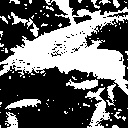
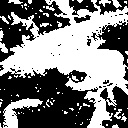
fixed

diff --git a/Question_01_10/answer_5.py b/Question_01_10/answer_5.py
@@ -2,10 +2,7 @@ import cv2
 import numpy as np
 
 # Read image
-img = cv2.imread("imori.jpg").astype(np.float) / 255.
-b = img[:, :, 0].copy()
-g = img[:, :, 1].copy()
-r = img[:, :, 2].copy()
+img = cv2.imread("imori.jpg").astype(np.float32) / 255.
 
 # RGB > HSV
 out = np.zeros_like(img)
@@ -16,23 +13,27 @@ min_arg = np.argmin(img, axis=2)
 
 H = np.zeros_like(max_v)
 
-for num, i in enumerate(range(0, 2, 1)):
-    ind = np.where(min_arg == i)
-    _ind = np.where((max_v[ind] - min_v[ind]) == 0)
-    H[ind][_ind] = 0
-    _ind = np.where((max_v[ind] - min_v[ind]) > 0)
-    H[ind][_ind] = 60. * (img[..., ((i+1)%3)][ind][_ind] - img[..., ((i+2)%3)][ind][_ind]) / (max_v[ind] - min_v[ind])[_ind] + 60. * (2*num+1)
-
+H[np.where(max_v == min_v)] = 0
+## if min == B
+ind = np.where(min_arg == 0)
+H[ind] = 60 * (img[..., 1][ind] - img[..., 2][ind]) / (max_v[ind] - min_v[ind]) + 60
+## if min == R
+ind = np.where(min_arg == 2)
+H[ind] = 60 * (img[..., 0][ind] - img[..., 1][ind]) / (max_v[ind] - min_v[ind]) + 180
+## if min == G
+ind = np.where(min_arg == 1)
+H[ind] = 60 * (img[..., 2][ind] - img[..., 0][ind]) / (max_v[ind] - min_v[ind]) + 300
+    
 V = max_v.copy()
 S = max_v.copy() - min_v.copy()
 
 # Transpose Hue
-H += 180 % 360
+H = (H + 180) % 360
 
 # HSV > RGB
 
 C = S
-H_ = H / 60
+H_ = H // 60
 X = C * (1 - np.abs( H_ % 2 - 1))
 Z = np.zeros_like(H)
 

diff --git a/Question_01_10/answer_4.py b/Question_01_10/answer_4.py
@@ -15,10 +15,10 @@ max_sigma = 0
 max_t = 0
 
 for _t in range(1, 255):
-    v0 = out[np.where(out < _t)[0]]
+    v0 = out[np.where(out < _t)]
     m0 = np.mean(v0) if len(v0) > 0 else 0.
     w0 = len(v0) / (H * W)
-    v1 = out[np.where(out >= _t)[0]]
+    v1 = out[np.where(out >= _t)]
     m1 = np.mean(v1) if len(v1) > 0 else 0.
     w1 = len(v1) / (H * W)
     sigma = w0 * w1 * ((m0 - m1) ** 2)

diff --git a/Question_41_50/answer_47.py b/Question_41_50/answer_47.py
@@ -16,10 +16,10 @@ max_sigma = 0
 max_t = 0
 
 for _t in range(1, 255):
-    v0 = out[np.where(out < _t)[0]]
+    v0 = out[np.where(out < _t)]
     m0 = np.mean(v0) if len(v0) > 0 else 0.
     w0 = len(v0) / (H * W)
-    v1 = out[np.where(out >= _t)[0]]
+    v1 = out[np.where(out >= _t)]
     m1 = np.mean(v1) if len(v1) > 0 else 0.
     w1 = len(v1) / (H * W)
     sigma = w0 * w1 * ((m0 - m1) ** 2)

diff --git a/Question_41_50/answer_48.py b/Question_41_50/answer_48.py
@@ -16,10 +16,10 @@ max_sigma = 0
 max_t = 0
 
 for _t in range(1, 255):
-    v0 = out[np.where(out < _t)[0]]
+    v0 = out[np.where(out < _t)]
     m0 = np.mean(v0) if len(v0) > 0 else 0.
     w0 = len(v0) / (H * W)
-    v1 = out[np.where(out >= _t)[0]]
+    v1 = out[np.where(out >= _t)]
     m1 = np.mean(v1) if len(v1) > 0 else 0.
     w1 = len(v1) / (H * W)
     sigma = w0 * w1 * ((m0 - m1) ** 2)

diff --git a/Question_41_50/answer_49.py b/Question_41_50/answer_49.py
@@ -16,10 +16,10 @@ max_sigma = 0
 max_t = 0
 
 for _t in range(1, 255):
-    v0 = out[np.where(out < _t)[0]]
+    v0 = out[np.where(out < _t)]
     m0 = np.mean(v0) if len(v0) > 0 else 0.
     w0 = len(v0) / (H * W)
-    v1 = out[np.where(out >= _t)[0]]
+    v1 = out[np.where(out >= _t)]
     m1 = np.mean(v1) if len(v1) > 0 else 0.
     w1 = len(v1) / (H * W)
     sigma = w0 * w1 * ((m0 - m1) ** 2)

diff --git a/Question_51_60/answer_52.py b/Question_51_60/answer_52.py
@@ -16,10 +16,10 @@ max_sigma = 0
 max_t = 0
 
 for _t in range(1, 255):
-    v0 = out[np.where(out < _t)[0]]
+    v0 = out[np.where(out < _t)]
     m0 = np.mean(v0) if len(v0) > 0 else 0.
     w0 = len(v0) / (H * W)
-    v1 = out[np.where(out >= _t)[0]]
+    v1 = out[np.where(out >= _t)]
     m1 = np.mean(v1) if len(v1) > 0 else 0.
     w1 = len(v1) / (H * W)
     sigma = w0 * w1 * ((m0 - m1) ** 2)

diff --git a/Question_51_60/answer_53.py b/Question_51_60/answer_53.py
@@ -16,10 +16,10 @@ max_sigma = 0
 max_t = 0
 
 for _t in range(1, 255):
-    v0 = out[np.where(out < _t)[0]]
+    v0 = out[np.where(out < _t)]
     m0 = np.mean(v0) if len(v0) > 0 else 0.
     w0 = len(v0) / (H * W)
-    v1 = out[np.where(out >= _t)[0]]
+    v1 = out[np.where(out >= _t)]
     m1 = np.mean(v1) if len(v1) > 0 else 0.
     w1 = len(v1) / (H * W)
     sigma = w0 * w1 * ((m0 - m1) ** 2)

diff --git a/README.md b/README.md
@@ -15,6 +15,7 @@
 
 ## Recent
 - 最近息切れしてきた
+- 2019.1.15 Q.4 大津の二値化 Q.5 HSV　を修正
 - **【New!】2019.1.14. Q.58 - 59 ラベリング, Q.60 アルファブレンドを追加**
 - **【New!】2019.1.11. Q.54 - 57 テンプレートマッチングを追加**
 - **【New!】2019.1.10. Q.27 Bicubic や Q.36-40 JPEGにおける解答を一部修正しました。（画素値がオーバーフローした箇所の修正）、Tutorailにも説明を追加**
@@ -85,6 +86,7 @@ $ python sample.py
 
 これからは問題を解いていってください。それぞれのフォルダに問題内容が入っています。
 問では assets/imori.jpg を使用して下さい。
+各フォルダのREADMEに問題が書いてあります。
 
 - チュートリアル >> Tutorial
 - 問題1-10  >> Quetion_01_10
@@ -110,65 +112,69 @@ $ python sample.py
 
 **未**になっている問題は解答未作成
 
-[問題1 - 10](https://github.com/yoyoyo-yo/Gasyori100knock/tree/master/Question_01_10)
+### [問題1 - 10](https://github.com/yoyoyo-yo/Gasyori100knock/tree/master/Question_01_10)
 
 |番号|問題||番号|問題|
-|:---:|:---|:---:|:---:|:---:|
+|:---:|:---:|:---:|:---:|:---:|
 |1|チャネル入れ替え| |6|減色処理 | |
 |2|グレースケール化 | |7|平均プーリング |
 |3|二値化 | |8|Maxプーリング | |
 |4|大津の二値化 | |9|ガウシアンフィルタ |
 |5|HSV変換 | |10|メディアンフィルタ |
 
-[問題11 - 20](https://github.com/yoyoyo-yo/Gasyori100knock/tree/master/Question_11_20)
+### [問題11 - 20](https://github.com/yoyoyo-yo/Gasyori100knock/tree/master/Question_11_20)
 
 |番号|問題||番号|問題|
-|:---:|:---|:---:|:---:|:---:|
+|:---:|:---:|:---:|:---:|:---:|
 |11|平滑化フィルタ | |16|Prewittフィルタ | 
 |12|モーションフィルタ | |17|Laplacianフィルタ |
 |13|MAX-MINフィルタ | |18|Embossフィルタ |
 |14|微分フィルタ | |19|LoGフィルタ | 
 |15|Sobelフィルタ | |20|ヒストグラム表示  | 
 
-[問題21 - 30](https://github.com/yoyoyo-yo/Gasyori100knock/tree/master/Question_21_30)
+### [問題21 - 30](https://github.com/yoyoyo-yo/Gasyori100knock/tree/master/Question_21_30)
 
 |番号|問題||番号|問題|
-|:---:|:---|:---:|:---:|:---:|
+|:---:|:---:|:---:|:---:|:---:|
 |21|ヒストグラム正規化 | |26|Bi-linear補間|
 |22|ヒストグラム操作 | |27|Bi-cubic補間|
 | 23|ヒストグラム平坦化 | |28|アフィン変換(平行移動)|
 | 24|ガンマ補正| |29|アフィン変換(拡大縮小)|
 |25|最近傍補間| |30|アフィン変換(回転)|
 
-[問題31 - 40](https://github.com/yoyoyo-yo/Gasyori100knock/tree/master/Question_31_40)
+### [問題31 - 40](https://github.com/yoyoyo-yo/Gasyori100knock/tree/master/Question_31_40)
 
 |番号|問題||番号|問題|
-|:---:|:---|:---:|:---:|:---:|
+|:---:|:---:|:---:|:---:|:---:|
 |31|アフィン変換(スキュー)| | 36&#9734;| JPEG圧縮 (Step.1)離散コサイン変換 |
 |32**未**|フーリエ変換 | |37| PSNR|
 |33**未**|フーリエ変換 ローパスフィルタ| |38&#9734;| JPEG圧縮 (Step.2)DCT+量子化|
 |34**未**|フーリエ変換 ハイパスフィルタ| |39| JPEG圧縮 (Step.3)YCbCr表色系|
 |35**未**|フーリエ変換 バンドパスフィルタ| | 40&#9734;| JPEG圧縮 (Step.4)YCbCr+DCT+量子化 |
 
-[問題41 - 50](https://github.com/yoyoyo-yo/Gasyori100knock/tree/master/Question_41_50)
+### [問題41 - 50](https://github.com/yoyoyo-yo/Gasyori100knock/tree/master/Question_41_50)
 
 |番号|問題||番号|問題|
-|:---:|:---|:---:|:---:|:---:|
+|:---:|:---:|:---:|:---:|:---:|
 | 41 | Cannyエッジ検出 (Step.1) エッジ強度 | | 46| Hough変換・直線検出 (Step.3) Hough逆変換 |
 | 42 | Cannyエッジ検出 (Step.2) 細線化 | | 47 |モルフォロジー処理(膨張) |
 | 43 | Cannyエッジ検出 (Step.3) ヒステリシス閾処理 | | 48 |モルフォロジー処理(収縮) |
 | 44| Hough変換・直線検出 (Step.1) Hough変換 | | 49 |オープニング処理 |
 | 45| Hough変換・直線検出 (Step.2) NMS | | 50 |クロージング処理 |
 
-[問題51 - 60](https://github.com/yoyoyo-yo/Gasyori100knock/tree/master/Question_51_60)
+### [問題51 - 60](https://github.com/yoyoyo-yo/Gasyori100knock/tree/master/Question_51_60)
 
 |番号|問題||番号|問題|
-|:---:|:---|:---:|:---:|:---:|
+|:---:|:---:|:---:|:---:|:---:|
 | 51 |モルフォロジー勾配 | | 56 |テンプレートマッチング NCC |
 | 52 |トップハット変換 | | 57 |テンプレートマッチング ZNCC |
 | 53 |ブラックハット変換 | | 58 |ラベリング 4近傍 |
 | 54 |テンプレートマッチング SSD | | 59 |ラベリング 8近傍 |
 | 55 |テンプレートマッチング SAD | | 60 |アルファブレンド |
+
+
+
+
 
 |番号|問題|備考||番号|問題|備考|
 |:---:|:---|:---:|:---:|:---:|:---|:---:|
